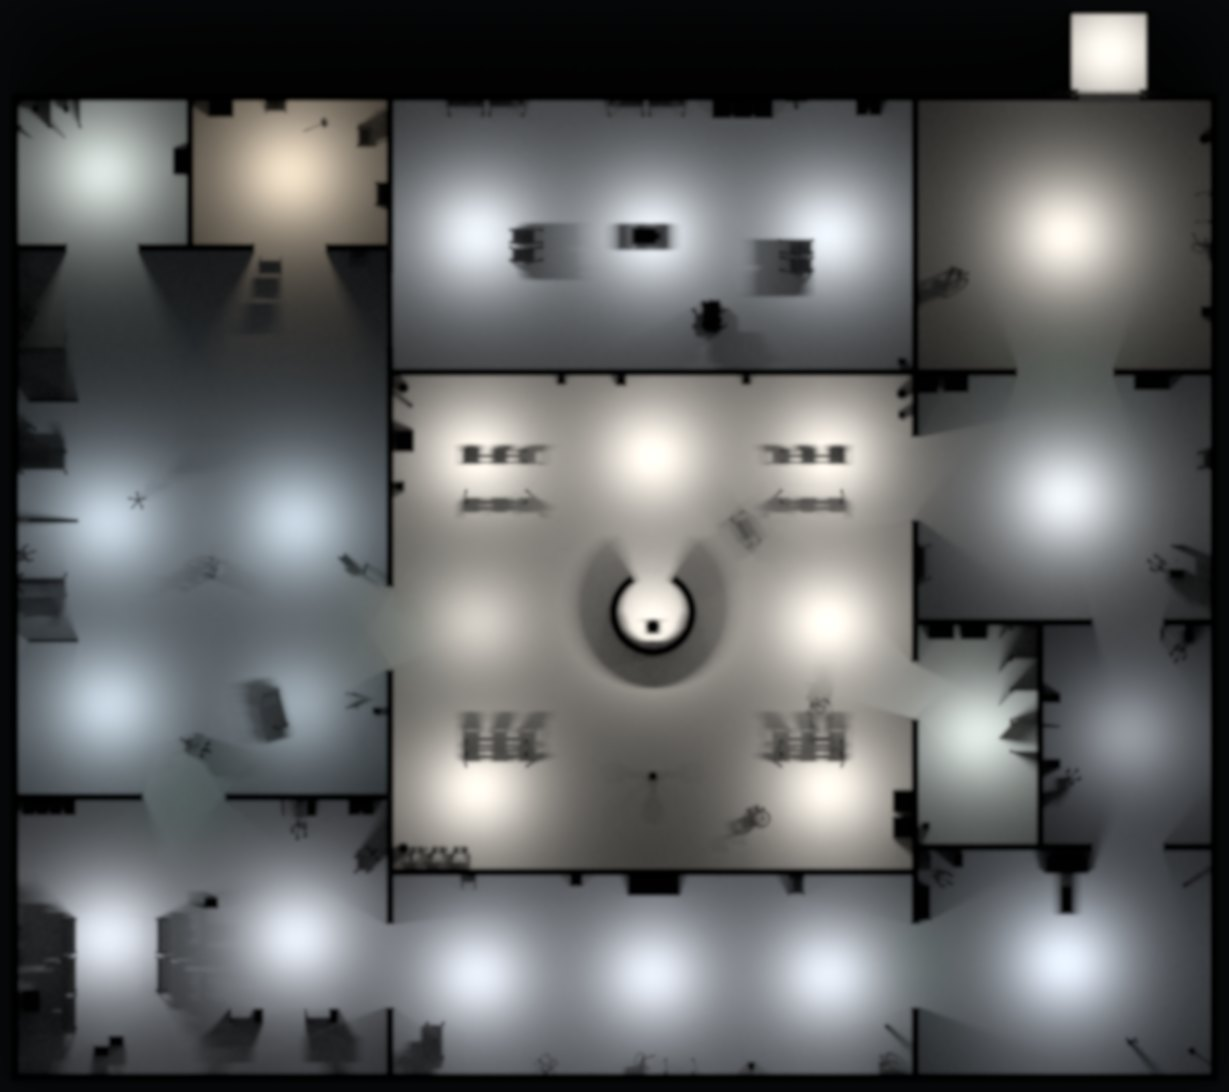
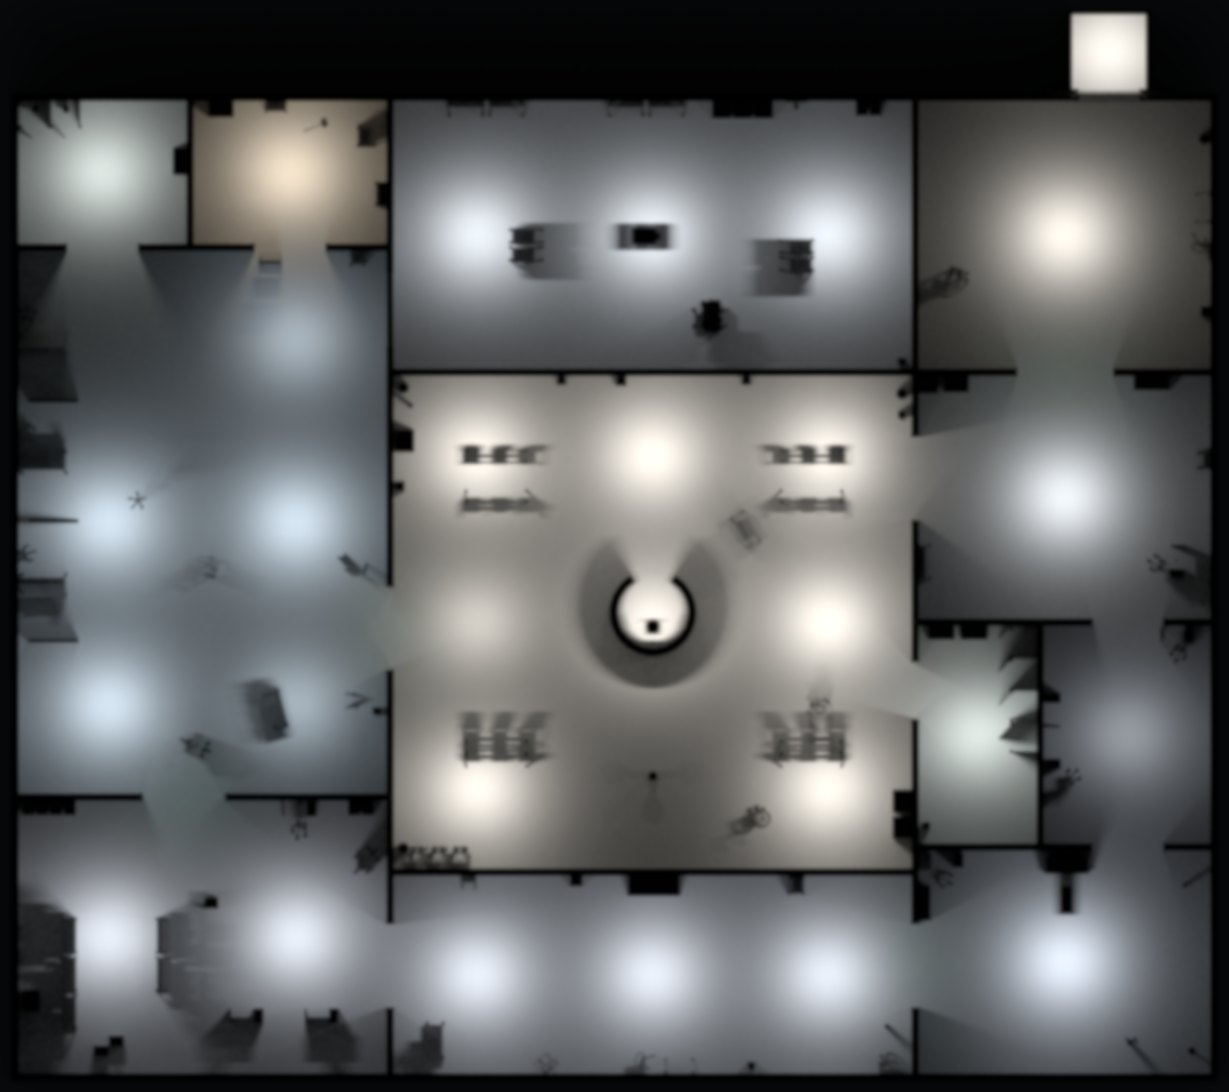
Quality pass: fewer draw calls, a light runaway fixed, every floor measured against the lab's brightness, the MRI shield flat
- Draw calls (render/matpool.js): props that differ only in colour share a pooled material (colour into vertex colour), so
  a room's props merge to one draw per material class: Floor 6's rooms went from 719 materials to a pooled handful; blood
  decals pool among themselves under a Blood_ name (the opening still finds and hides all 314); the room-mechanic props
  (cylinders, trolleys, panel, scanner) merge at load; the emergency glow planes are instanced. Floor 6's busiest view
  ~630 -> 435 draws; Floors 7 / 5 ~200-390. (Merging per floor instead was tried and was worse: it defeats culling.)
- A real bug: a negative frame step (applyLevel resets the clock after the frame's own timestamp) with the emergency
  light's instant fade sent its fade to ~1e9 and every light ran away: a white screen. The frame step and the fade are
  clamped.
- Brightness, measured as the shot hook captures, on the play area: the lab's approved room 0.321; Floor 6 0.323 (bake
  k 2.2), Floor 7 raised to k 2.85, Floor 5 to 2.95 with the flooded ward's tubes less dead and rebaked; the flood water
  takes the floor's bake and shows it through (it read near-black: 0.09 -> ~0.18, readable).
- The guard's shield on the MRI: flat on the scanner's face, outer side to the room, over the bore (it hung edge-on,
  turned the way he came from); where he'd reach for it is beside the bed.
- Floor 5: the reception's first-aid case on the desk's front ledge, the pathology shells' reach widened;
[…]

Changed region(s): [[0.1237, 0.2179, 0.3401, 0.4048]]

diff --git a/yolanda/zombie/src/render/arena.js b/yolanda/zombie/src/render/arena.js
@@ -4,6 +4,7 @@
 // the camera and Yola lower themselves, kit doors are cut at the same height, and the OR's barred door, the contractor
 // store's powered door, the weak partition and the three lifts animate from the level's state).
 import * as THREE from 'three';
+import { poolPiece } from './matpool.js';
 import { PISTOL_CORE_SCALE, makeKnife } from './weaponModels.js';
 import { RoundedBoxGeometry } from 'three/examples/jsm/geometries/RoundedBoxGeometry.js';
 import { RoomEnvironment } from 'three/examples/jsm/environments/RoomEnvironment.js';
@@ -16,9 +17,10 @@ import { mergeGeometries } from 'three/examples/jsm/utils/BufferGeometryUtils.js
 const isUnder = (o, name) => { for (let p = o.parent; p; p = p.parent) if (p.name === name) return true; return false; };
 // a static model as one mesh per material (geometry baked into the model's own space): far fewer draw calls
 // (roots: one or more objects; geometry is baked in world space, so a root at the origin bakes in model space)
-function mergeStatic(roots, keep = () => true) {
+function mergeStatic(roots, keep = () => true, pool = false) {
   const byKey = new Map();
   const put = (material, g) => {
+    if (pool) material = poolPiece(material, g); // (render/matpool.js: the colour into vertex colour, a pooled material)
     for (const n of Object.keys(g.attributes)) if (!['position', 'normal', 'uv', 'color'].includes(n)) g.deleteAttribute(n);
     const key = material.uuid + '|' + Object.keys(g.attributes).sort().join(',');
     if (!byKey.has(key)) byKey.set(key, { material, geos: [] });
@@ -379,7 +381,7 @@ export class Arena {
     }
     for (const [id, hs] of rooms) {
       const g = new THREE.Group(); g.name = 'room:' + id;
-      for (const { geometry, material } of mergeStatic(hs)) { const m = new THREE.Mesh(geometry, material); m.castShadow = m.receiveShadow = true; g.add(m); }
+      for (const { geometry, material } of mergeStatic(hs, () => true, true)) { const m = new THREE.Mesh(geometry, material); m.castShadow = m.receiveShadow = true; g.add(m); }
       for (const h of hs) this.group.remove(h);
       this.group.add(g);
     }
@@ -765,18 +767,23 @@ export class Arena {
     }
     const grp = new THREE.Group(); grp.name = 'emergency'; grp.visible = false; s.add(grp); e.group = grp;
     const geo = new THREE.PlaneGeometry(1, 1); geo.rotateX(-Math.PI / 2);
-    const put = (m, x, z, size) => { const p = new THREE.Mesh(geo, m); p.position.set(x, 0.02, z); p.scale.set(size, 1, size); p.renderOrder = 2; grp.add(p); };
+    const inst = new Map(), put = (m, x, z, size) => { if (!inst.has(m)) inst.set(m, []); inst.get(m).push([x, z, size]); }; // (one instanced draw per material, 2026-10-19: they were a mesh each)
     if (this.f3) { for (const l of CH().lights || []) put(e.redMat, l.x, l.z, 5.5); for (const d of CH().doors || []) if (d.kind !== 'lift') put(e.redMat, d.x, d.z, 2.6); }
     else for (const d of LAYOUT.doors) { // (the wing: one half glow inside each doorway; the chapter's doors are another map's)
       const ix = Math.sin(d.yaw), iz = Math.cos(d.yaw), W = 4.2, D = 3.0;
       const p = new THREE.Mesh(geo, e.redHalf); p.scale.set(W, 1, D); p.rotation.y = d.yaw; p.position.set(d.x + ix * (D / 2 + 0.05), 0.02, d.z + iz * (D / 2 + 0.05)); p.renderOrder = 2; grp.add(p);
     }
     for (const r of this.f3 ? CH().rooms || [] : OB_WING_ROOMS) for (const [x0, x1, z0, z1] of r.rects) { const w = x1 - x0, dd = z1 - z0; if (w * dd > 12) put(e.coldMat, (x0 + x1) / 2, (z0 + z1) / 2, Math.min(w, dd) * 0.8); }
+    for (const [m, list] of inst) {
+      const im = new THREE.InstancedMesh(geo, m, list.length), M4 = new THREE.Matrix4(), q = new THREE.Quaternion();
+      list.forEach(([x, z, size], i) => im.setMatrixAt(i, M4.compose(new THREE.Vector3(x, 0.02, z), q, new THREE.Vector3(size, 1, size))));
+      im.renderOrder = 2; im.frustumCulled = false; grp.add(im);
+    }
   }
   tickEmergency(dt) {
-    const e = this.em; if (!e) return;
+    const e = this.em; if (!e) return; dt = Math.max(0, dt || 0); // (a negative step with an instant fade sent k to ~1e9: every light ran away, the screen went white)
     if (e.k === e.target && e.k === 0 && (this.lightScale ?? 1) === 1) return;
-    e.k += Math.max(-dt * e.rate, Math.min(dt * e.rate, e.target - e.k)); if (dt === 0) e.k = e.target; e.t += dt;
+    e.k += Math.max(-dt * e.rate, Math.min(dt * e.rate, e.target - e.k)); if (dt === 0) e.k = e.target; e.k = Math.min(1, Math.max(0, e.k)); e.t += dt;
     const k = e.k, beacon = 0.5 + 0.5 * Math.sin((e.t * Math.PI * 2) / 1.9); // one slow sweep of a rotating beacon
     this.hemi.color.copy(e.base.sky).lerp(EM_SKY, k); this.hemi.groundColor.copy(e.base.ground).lerp(EM_GROUND, k);
     this.hemi.intensity = e.base.hemiI + (0.52 - e.base.hemiI) * k;

diff --git a/yolanda/zombie/src/render/matpool.js b/yolanda/zombie/src/render/matpool.js
@@ -1,0 +1,51 @@
+// Pooled materials (2026-10-19, the floors' draw calls): props that differ only in colour, or are separate copies of the
+// same material, share one material, their colour moved into the geometry's vertex colour; merged, they are one draw. Floor
+// 6's rooms carried 719 materials, 145 distinct, 6 textures. Left alone: transparent and alpha-tested ones, and any material
+// marked userData.noPool (or named in `keep`). The Blood_* decals pool among themselves only, under a Blood_ name: the
+// opening finds and hides them by that name (opening.js setBlood).
+import * as THREE from 'three';
+import { mergeGeometries } from 'three/examples/jsm/utils/BufferGeometryUtils.js';
+
+const POOL = new Map();
+const tq = (t) => (t ? [t.source?.uuid, t.offset.x, t.offset.y, t.repeat.x, t.repeat.y, t.rotation, t.wrapS, t.wrapT, t.flipY, t.channel].join(',') : '-');
+export function pooled(m, keep = null) {
+  if (!m?.isMeshStandardMaterial || m.transparent || m.alphaTest > 0 || m.userData?.noPool || keep?.test(m.name || '')) return null;
+  const blood = /^Blood_/i.test(m.name || '');
+  const q = (v, k) => Math.round((v ?? 0) / k) * k;
+  const key = [blood, m.type, tq(m.map), tq(m.normalMap), tq(m.emissiveMap), tq(m.roughnessMap), tq(m.metalnessMap), tq(m.aoMap), q(m.roughness, 0.05), q(m.metalness, 0.1), m.emissive?.getHexString(), q(m.emissiveIntensity, 0.05), q(m.envMapIntensity, 0.1), m.side, m.flatShading, m.polygonOffset, m.polygonOffsetFactor, m.polygonOffsetUnits, m.depthWrite, m.depthTest].join('|');
+  let P = POOL.get(key);
+  if (!P) { P = m.clone(); P.color.setRGB(1, 1, 1); P.vertexColors = true; P.name = blood ? 'Blood_pool' : 'pool:' + (m.name || ''); POOL.set(key, P); }
+  return P;
+}
+// a geometry piece drawn with `material`: its colour into vertex colour (times any it had), the pooled material back (or
+// the material itself, when it is left alone)
+export function poolPiece(material, g, keep = null) {
+  const P = pooled(material, keep);
+  if (!P) { if (g.attributes.color && !material.vertexColors) g.deleteAttribute('color'); return material; }
+  const n = g.attributes.position.count, c = new Float32Array(n * 3), src = material.vertexColors ? g.attributes.color : null, mc = material.color;
+  for (let i = 0; i < n; i++) { c[i * 3] = mc.r * (src ? src.getX(i) : 1); c[i * 3 + 1] = mc.g * (src ? src.getY(i) : 1); c[i * 3 + 2] = mc.b * (src ? src.getZ(i) : 1); }
+  g.setAttribute('color', new THREE.BufferAttribute(c, 3));
+  if (!P.map && !P.normalMap && !P.emissiveMap && !P.roughnessMap && !P.metalnessMap && !P.aoMap) g.deleteAttribute('uv'); // (untextured: one attribute set)
+  return P;
+}
+// a whole model as one mesh per pooled material (its own space: the root's transform is kept off): a prop template
+export function mergeModel(root, keep = null) {
+  root.updateMatrixWorld(true);
+  const inv = new THREE.Matrix4().copy(root.matrixWorld).invert(), M = new THREE.Matrix4(), by = new Map();
+  root.traverse((o) => {
+    if (!o.isMesh || o.isSkinnedMesh) return;
+    for (let p = o; p; p = p.parent) if (!p.visible) return;
+    const mats = [].concat(o.material); M.multiplyMatrices(inv, o.matrixWorld);
+    const g0 = o.geometry.clone().applyMatrix4(M), g = g0.index ? g0.toNonIndexed() : g0;
+    const pieces = mats.length === 1 || !g0.groups.length ? [[mats[0], g]] : g0.groups.map((gr) => { const sub = new THREE.BufferGeometry(); for (const [n, a] of Object.entries(g.attributes)) sub.setAttribute(n, new THREE.BufferAttribute(a.array.slice(gr.start * a.itemSize, (gr.start + gr.count) * a.itemSize), a.itemSize, a.normalized)); return [mats[gr.materialIndex], sub]; });
+    for (let [m, piece] of pieces) {
+      m = poolPiece(m, piece, keep);
+      for (const n of Object.keys(piece.attributes)) if (!['position', 'normal', 'uv', 'color'].includes(n)) piece.deleteAttribute(n);
+      const key = m.uuid + '|' + Object.keys(piece.attributes).sort().join(',');
+      if (!by.has(key)) by.set(key, { m, geos: [] }); by.get(key).geos.push(piece);
+    }
+  });
+  const out = new THREE.Group(); out.name = root.name;
+  for (const { m, geos } of by.values()) { const g = mergeGeometries(geos, false); if (!g) continue; const mesh = new THREE.Mesh(g, m); mesh.castShadow = mesh.receiveShadow = true; out.add(mesh); }
+  return out;
+}

diff --git a/yolanda/zombie/src/render/floorlights.js b/yolanda/zombie/src/render/floorlights.js
@@ -15,7 +15,7 @@ const KIND = { // [colour, brightness on the floor (lightkit's k), steady / buzz
   cold: [0xcfe6ff, 0.5, [0.8, 0.1, 0.06, 0.04]],
   lab: [0xe2f0ff, 0.52, [0.75, 0.12, 0.08, 0.05]],
   lounge: [0xffe2b8, 0.52, [0.7, 0.18, 0.08, 0.04]],
-  flood: [0xbfe2ff, 0.4, [0.25, 0.1, 0.3, 0.35]],
+  flood: [0xbfe2ff, 0.46, [0.45, 0.1, 0.25, 0.2]], // (a fight room: dim and failing, but readable)
   mri: [0xcfe2ff, 0.55, [0.85, 0.1, 0.05, 0]],
   dim: [0xc8d8f0, 0.36, [0.6, 0.15, 0.15, 0.1]],
   safe: [0xe8f4ff, 0.52, [1, 0, 0, 0]], // (the story's safe rooms: every tube works)
@@ -25,6 +25,9 @@ const ROOM_KIND = {
   o6: 'lounge', w6: 'clinical', wc6: 'toilets', jn6: 'works', e6: 'hub', cw6: 'corridor', cm6: 'corridor', ce6: 'corridor', b6: 'clinical', n6: 'hub', p6: 'lab', k6: 'safe', a6: 'works', s6: 'lab',
   wt5: 'toilets', jn5: 'works', pa5: 'lab', e5: 'hub', w5: 'flood', h5: 'hub', i5: 'safe', pt5: 'toilets', rr5: 'dim', r5: 'clinical', x5: 'clinical', m5: 'mri',
 };
+// each floor's bake strength: the play area (the middle of the screen) measured against the lighting lab's approved room
+// (0.32 mean brightness, captured as the shot hook does, 2026-10-19): Floor 6 matched at the lab's 2.2; 7 and 5 read 10-13% under
+const BAKE_K = { 7: 2.85, 6: 2.2, 5: 2.95 };
 const hash = (x, z) => { const v = Math.sin(x * 12.9898 + z * 78.233) * 43758.5453; return v - Math.floor(v); };
 const stateOf = (w, u) => (u < w[0] ? 'steady' : u < w[0] + w[1] ? 'buzz' : u < w[0] + w[1] + w[2] ? 'failing' : 'dead');
 
@@ -45,7 +48,7 @@ function floorPlan(n) {
   // the lift's own light: the cab's lamp stays on (the way out)
   fixtures.push({ kind: 'tube', x: F.lift.x, z: F.lift.inside.z, col: 0xfff3e0, k: 0.5, state: 'steady', floor: n, room: 'lift' });
   const B = F.bounds;
-  return { fixtures, rooms, bake: { floor: n, url: `assets/hospital/floor${n}_light.jpg`, x0: B.minX, x1: B.maxX, z0: B.minZ, z1: B.maxZ, k: 2.2, fill: 0.3 } };
+  return { fixtures, rooms, bake: { floor: n, url: `assets/hospital/floor${n}_light.jpg`, x0: B.minX, x1: B.maxX, z0: B.minZ, z1: B.maxZ, k: BAKE_K[n], fill: 0.3 } };
 }
 // EXIT signs: on the wall over a door, on the face the camera sees, facing the room it leads out of (yaw 0: facing +z)
 const EXITS = [

diff --git a/yolanda/zombie/src/main.js b/yolanda/zombie/src/main.js
@@ -599,7 +599,7 @@ function frame(now) {
   requestAnimationFrame(frame);
   if (now - last > 500 && last > 0) { perf.stalls = (perf.stalls || 0) + 1; perf.longest = Math.max(perf.longest || 0, now - last); } // (a frame that never came: the meter's 'stalls')
   perf.frameCount = (perf.frameCount || 0) + 1;
-  const dt = Math.min(0.1, (now - last) / 1000); last = now;
+  const dt = Math.max(0, Math.min(0.1, (now - last) / 1000)); last = now; // (never negative: applyLevel sets last after the frame's own timestamp; a negative step blew the emergency light up, 2026-10-19)
   if (manualTicks) return;
   const c0 = performance.now(); runFrame(dt); perf.cpu.push(performance.now() - c0); if (perf.cpu.length > 600) perf.cpu.shift();
 }
@@ -718,6 +718,7 @@ function runFrame(dt, doRender = true) {
   stepPhysics(animDt);
   acid.audio = audio; acid.update(sim.hazards, sim.zombies, animDt, p);
   roomsView.update(sim, animDt); // (render/rooms.js)
+  if (lightkit?.on.baked) for (const V of roomsView.floods.values()) if (!V.water.userData.baked) lightkit.bakeMesh(V.water); // (the water takes the floor's bake)
   ZombieView.updatePieces(animDt); ZombieView.updateShields(animDt); gibs.world = sim.world; gibs.update(animDt);
   ZombieView.syncLoose(sim.loose, alpha, animDt); // (the drip stands and wheelchairs: core/loose.js)
   { // open to a finisher: the gold mark over its head (render/finishmark.js), the one in reach a touch bigger

diff --git a/yolanda/zombie/src/core/chapter.js b/yolanda/zombie/src/core/chapter.js
@@ -1107,9 +1107,9 @@ const F5 = buildFloor(5, {
   ],
   pickups: (Z) => [
     { id: 'i5ammo', kind: 'ammo', weapon: 'pistol', rounds: 24, x: 5.6, z: -152.6, r: 1.0, label: 'Pistol magazines', model: 'mag', y: 0.81 },
-    { id: 'h5aid', kind: 'health', amount: 40, x: -15.34, z: -149.0, r: 1.3, label: 'First-aid case', model: 'aid', y: 1.12 },
+    { id: 'h5aid', kind: 'health', amount: 40, x: -15.34, z: -148.72, r: 1.3, label: 'First-aid case', model: 'aid', y: 1.1 }, // (on the desk's front ledge)
     { id: 'jn5sledge', kind: 'weapon', weapon: 'sledgehammer', x: -28.9, z: -169.9, r: 1.2, label: 'Sledgehammer', file: 'zombie/assets/weapons/sledgehammer.glb', len: 0.95, rot: 0.4, y: 0.05 },
-    { id: 'pa5shells', kind: 'ammo', weapon: 'shotgun', rounds: 18, x: -9.6, z: -164.85, r: 1.2, label: 'Shotgun shells', model: 'shells', y: 1.06 },
+    { id: 'pa5shells', kind: 'ammo', weapon: 'shotgun', rounds: 18, x: -9.6, z: -164.85, r: 1.4, label: 'Shotgun shells', model: 'shells', y: 1.06 },
     { id: 'pa5aid', kind: 'health', amount: 60, x: -22.8, z: -170.5, r: 1.1, label: 'First-aid case', model: 'aid', y: 1.06 },
     { id: 'r5aid', kind: 'health', amount: 40, x: -28.6, z: -134.4, r: 1.0, label: 'First-aid case', model: 'aid', y: 0.81 },
     { id: 'x5mags', kind: 'ammo', weapon: 'pistol', rounds: 18, x: -24.0, z: -133.4, r: 1.0, label: 'Spare pistol rounds', model: 'mag', y: 1.0 },

diff --git a/yolanda/zombie/src/render/lightkit.js b/yolanda/zombie/src/render/lightkit.js
@@ -171,6 +171,15 @@ export class LightKit {
       m.userData.bakeMat = bm; m.userData.liveMat = m.material; this.bakeFloors.push(m);
     }
   }
+  // a surface laid over a floor (the flood's water: render/rooms.js) takes that floor's bake too, uv1 from world x / z: without
+  // it the ward under the water read near-black (47% of the screen, 2026-10-19)
+  bakeMesh(mesh) {
+    if (!this.plan.bakes[0].tex || mesh.userData.baked) return; mesh.userData.baked = true; mesh.updateMatrixWorld(true);
+    const g = mesh.geometry, p = g.attributes.position, v = new THREE.Vector3(), uv1 = new Float32Array(p.count * 2), c = new THREE.Vector3().setFromMatrixPosition(mesh.matrixWorld), B = this.bakeOf(c.x, c.z);
+    for (let i = 0; i < p.count; i++) { v.fromBufferAttribute(p, i).applyMatrix4(mesh.matrixWorld); uv1[i * 2] = (v.x - B.x0) / (B.x1 - B.x0); uv1[i * 2 + 1] = 1 - (v.z - B.z0) / (B.z1 - B.z0); }
+    g.setAttribute('uv1', new THREE.BufferAttribute(uv1, 2));
+    mesh.material.lightMap = B.tex; mesh.material.lightMapIntensity = B.k; mesh.material.needsUpdate = true;
+  }
   // the bake cannot flicker: under each buzzing / failing fitting a soft dark patch takes the light back off the floor
   // as the tube dips (normal blending, black, opacity = the light lost)
   bakeDips() {

diff --git a/yolanda/zombie/src/render/roomprops.js b/yolanda/zombie/src/render/roomprops.js
@@ -3,6 +3,7 @@
 // prop asked for before it has loaded falls back to the code-built stand-in (render/rooms.js, render/clipchars.js).
 // Each clone gets its own copy of the materials the game lights at run time (MRI_Glow, Panel_LampGreen / Red, Button_Red).
 import { GLTFLoader } from 'three/examples/jsm/loaders/GLTFLoader.js';
+import { mergeModel } from './matpool.js';
 
 export const ROOMPROPS = {};
 const NAMES = ['o2_cylinder', 'o2_trolley', 'flood_panel', 'mri_scanner', 'magnet_stop'];
@@ -11,8 +12,7 @@ const LIVE = /^(MRI_Glow|Panel_LampGreen|Panel_LampRed|Button_Red)/;
 export function loadRoomProps(base = 'assets/props/room_mechanics/') {
   const L = new GLTFLoader();
   return Promise.all(NAMES.map((n) => L.loadAsync(base + n + '.glb').then((g) => {
-    g.scene.traverse((o) => { if (o.isMesh) { o.castShadow = true; o.receiveShadow = true; } });
-    ROOMPROPS[n] = g.scene;
+    ROOMPROPS[n] = mergeModel(g.scene, LIVE); // (one mesh per pooled material: a cylinder was 11 draws; the lit-at-run-time materials stay their own)
   }).catch((e) => console.warn('room prop', n, e))));
 }
 export function propClone(n) {

diff --git a/yolanda/zombie/src/core/rooms.js b/yolanda/zombie/src/core/rooms.js
@@ -91,8 +91,10 @@ function mriOn(sim, M) {
 function ripShields(sim, M) {
   for (const z of sim.zombies) {
     if (z.kind !== 'guard' || !z.alive || !(z.shieldHp > 0) || z.planted || z.state === ZS.PICKUP || !inside(M, z.x, z.z, 2)) continue;
-    const a = Math.atan2(M.magnet.x - z.x, M.magnet.z - z.z);
-    z.planted = { x: M.magnet.x - Math.sin(a) * 0.55, z: M.magnet.z - Math.cos(a) * 0.55, yaw: a, gx: M.magnet.x - Math.sin(a) * 0.9, gz: M.magnet.z - Math.cos(a) * 0.9, magnet: true };
+    // flat on the scanner's front face, its outer side to the room (it hung edge-on, turned the way he came from), above the
+    // patient bed; where he would reach for it: beside the bed (2026-10-19)
+    const my = M.yaw ?? 0, fx = Math.sin(my), fz = Math.cos(my);
+    z.planted = { x: M.magnet.x + fx * 0.62, z: M.magnet.z + fz * 0.62, yaw: my + Math.PI, gx: M.magnet.x + fx * 1.0 + fz * 0.75, gz: M.magnet.z + fz * 1.0 - fx * 0.75, magnet: true };
     z.set(ZS.STAGGER, 1.1); z.attackCd = 1.4;
     sim.emit({ type: 'mriShield', id: z.id, x: z.planted.x, z: z.planted.z });
     sim.openFinisher?.(z, 'magnet', 5);

diff --git a/yolanda/zombie/src/render/rooms.js b/yolanda/zombie/src/render/rooms.js
@@ -46,7 +46,7 @@ export class RoomsView {
   }
   makeFlood(F) {
     const w = F.maxX - F.minX, d = F.maxZ - F.minZ, tex = waterTex(); tex.repeat.set(w / 2.5, d / 2.5);
-    const water = new THREE.Mesh(new THREE.PlaneGeometry(w, d), new THREE.MeshStandardMaterial({ map: tex, color: 0x9fc4c4, roughness: 0.08, metalness: 0.1, transparent: true, opacity: 0.78, depthWrite: false }));
+    const water = new THREE.Mesh(new THREE.PlaneGeometry(w, d), new THREE.MeshStandardMaterial({ map: tex, color: 0x9fc4c4, roughness: 0.08, metalness: 0.1, transparent: true, opacity: 0.6, depthWrite: false }) /* (0.6: the floor's baked light shows through, 2026-10-19: at 0.78 the ward read near-black) */);
     water.rotation.x = -Math.PI / 2; water.position.set((F.minX + F.maxX) / 2, 0.035, (F.minZ + F.maxZ) / 2); water.renderOrder = 1; water.receiveShadow = true; this.scene.add(water);
     const yaw = F.panel.yaw ?? Math.atan2((F.minX + F.maxX) / 2 - F.panel.x, (F.minZ + F.maxZ) / 2 - F.panel.z); // (facing the water)
     const model = propClone('flood_panel');

diff --git a/yolanda/zombie/src/render/clipchars.js b/yolanda/zombie/src/render/clipchars.js
@@ -1731,7 +1731,7 @@ export class ZombieView extends ClipBody {
   guardShield(z) {
     if (z.planted?.magnet && this.shieldC && !this.plantedP) { // (the MRI magnet tore it off his arm: core/rooms.js) it flies to the scanner and sticks
       this.plantShield(z); const P = this.plantedP, o = P.shield.object3D, q = z.planted;
-      o.position.set(q.x, 1.15, q.z); o.rotation.set(0, q.yaw + Math.PI, 0); o.updateMatrixWorld(true);
+      o.position.set(q.x, 1.45, q.z); o.rotation.set(0, q.yaw + Math.PI, 0); o.updateMatrixWorld(true); // (over the bore, clear of the bed)
       P.grip = P.shield.grips.center.getWorldPosition(new THREE.Vector3()); P.gripR = P.grip.clone();
       ZombieView.fx?.burst(q.x, 1.15, q.z, 14, 0xe9e1cf, 2.4, 0.6, 0.45);
       return;
